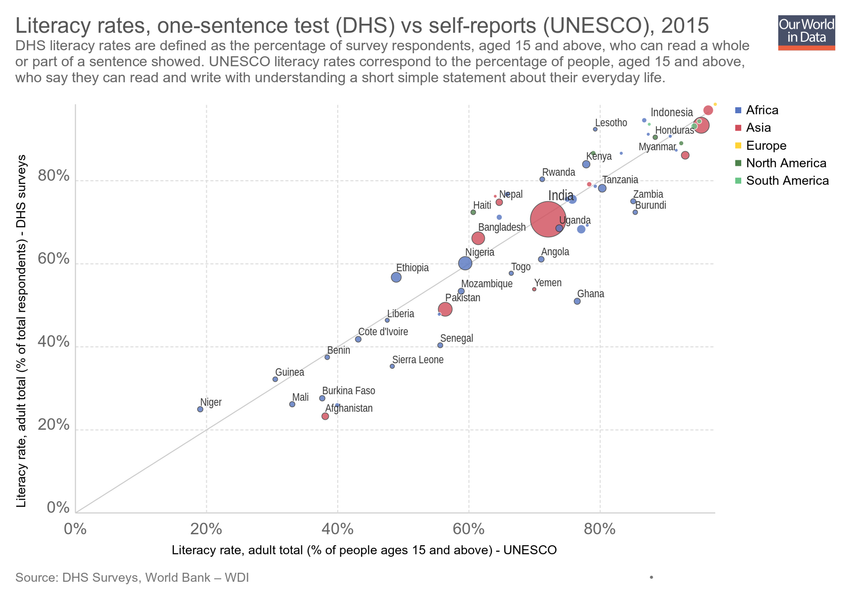
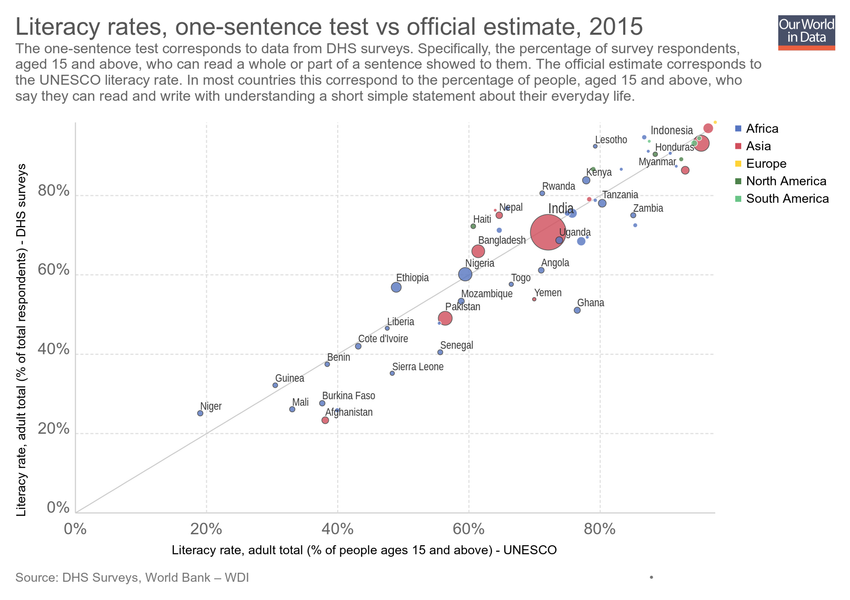
Updating chart literacy-rate-adult-total-dhs-surveys-vs-unesco

diff --git a/grapher/literacy-rate-adult-total-dhs-surveys-vs-unesco.html b/grapher/literacy-rate-adult-total-dhs-surveys-vs-unesco.html
@@ -1,4 +1,4 @@
-<!doctype html><html><head><meta name="viewport" content="width=device-width, initial-scale=1" /><title>Literacy rates, one-sentence test (DHS) vs self-reports (UNESCO) - Our World in Data</title><meta name="description" content="DHS literacy rates are defined as the percentage of survey respondents, aged 15 and above, who can read a whole or part of a sentence showed. UNESCO literacy rates correspond to the percentage of people, aged 15 and above, who say they can read and write with understanding a short simple statement about their everyday life. " /><link rel="canonical" href="https://ourworldindata.org/grapher/literacy-rate-adult-total-dhs-surveys-vs-unesco" /><meta property="fb:app_id" content="1149943818390250" /><meta property="og:url" content="https://ourworldindata.org/grapher/literacy-rate-adult-total-dhs-surveys-vs-unesco" /><meta property="og:title" content="Literacy rates, one-sentence test (DHS) vs self-reports (UNESCO)" /><meta property="og:description" content="DHS literacy rates are defined as the percentage of survey respondents, aged 15 and above, who can read a whole or part of a sentence showed. UNESCO literacy rates correspond to the percentage of people, aged 15 and above, who say they can read and write with understanding a short simple statement about their everyday life. " /><meta property="og:image" content="https://ourworldindata.org/grapher/exports/literacy-rate-adult-total-dhs-surveys-vs-unesco.png?v=6" /><meta property="og:image:width" content="850" /><meta property="og:image:height" content="600" /><meta property="og:site_name" content="Our World in Data" /><meta name="twitter:card" content="summary_large_image" /><meta name="twitter:site" content="@OurWorldInData" /><meta name="twitter:creator" content="@OurWorldInData" /><meta name="twitter:title" content="Literacy rates, one-sentence test (DHS) vs self-reports (UNESCO)" /><meta name="twitter:description" content="DHS literacy rates are defined as the percentage of survey respondents, aged 15 and above, who can read a whole or part of a sentence showed. UNESCO literacy rates correspond to the percentage of people, aged 15 and above, who say they can read and write with understanding a short simple statement about their everyday life. " /><meta name="twitter:image" content="https://ourworldindata.org/grapher/exports/literacy-rate-adult-total-dhs-surveys-vs-unesco.png?v=6" /><style>
+<!doctype html><html><head><meta name="viewport" content="width=device-width, initial-scale=1" /><title>Literacy rates, one-sentence test  vs official estimate - Our World in Data</title><meta name="description" content="The one-sentence test corresponds to data from DHS surveys. Specifically, the percentage of survey respondents, aged 15 and above, who can read a whole or part of a sentence showed to them. The official estimate corresponds to the UNESCO literacy rate. In most countries this correspond to the percentage of people, aged 15 and above, who say they can read and write with understanding a short simple statement about their everyday life. " /><link rel="canonical" href="https://ourworldindata.org/grapher/literacy-rate-adult-total-dhs-surveys-vs-unesco" /><meta property="fb:app_id" content="1149943818390250" /><meta property="og:url" content="https://ourworldindata.org/grapher/literacy-rate-adult-total-dhs-surveys-vs-unesco" /><meta property="og:title" content="Literacy rates, one-sentence test  vs official estimate" /><meta property="og:description" content="The one-sentence test corresponds to data from DHS surveys. Specifically, the percentage of survey respondents, aged 15 and above, who can read a whole or part of a sentence showed to them. The official estimate corresponds to the UNESCO literacy rate. In most countries this correspond to the percentage of people, aged 15 and above, who say they can read and write with understanding a short simple statement about their everyday life. " /><meta property="og:image" content="https://ourworldindata.org/grapher/exports/literacy-rate-adult-total-dhs-surveys-vs-unesco.png?v=8" /><meta property="og:image:width" content="850" /><meta property="og:image:height" content="600" /><meta property="og:site_name" content="Our World in Data" /><meta name="twitter:card" content="summary_large_image" /><meta name="twitter:site" content="@OurWorldInData" /><meta name="twitter:creator" content="@OurWorldInData" /><meta name="twitter:title" content="Literacy rates, one-sentence test  vs official estimate" /><meta name="twitter:description" content="The one-sentence test corresponds to data from DHS surveys. Specifically, the percentage of survey respondents, aged 15 and above, who can read a whole or part of a sentence showed to them. The official estimate corresponds to the UNESCO literacy rate. In most countries this correspond to the percentage of people, aged 15 and above, who say they can read and write with understanding a short simple statement about their everyday life. " /><meta name="twitter:image" content="https://ourworldindata.org/grapher/exports/literacy-rate-adult-total-dhs-surveys-vs-unesco.png?v=8" /><style>
         html, body {
             height: 100%;
             margin: 0;
@@ -20,8 +20,8 @@
         }
     </style><noscript><style>
                     figure { display: none !important; }
-                </style></noscript><link rel="stylesheet" href="https://ourworldindata.org/grapher/assets/commons.bundle.dcbbe53805c487d5e57617b10ac73a8a.css" /><link rel="preload" href="/grapher/data/variables/97492+3196+72+123.json?v=6" as="fetch" crossorigin /></head><body class="singleChart"><figure data-grapher-src="/grapher/literacy-rate-adult-total-dhs-surveys-vs-unesco"></figure><noscript id="fallback"><img src="/grapher/exports/literacy-rate-adult-total-dhs-surveys-vs-unesco.svg" /><p>Interactive visualization requires JavaScript</p></noscript><script src="https://cdn.polyfill.io/v2/polyfill.min.js?features=es6,fetch"></script><script src="https://ourworldindata.org/grapher/assets/commons.bundle.da523acc49807a06a11f.js"></script><script src="https://ourworldindata.org/grapher/assets/charts.bundle.da523acc49807a06a11f.js"></script><script>
-        var jsonConfig = {"id":2705,"map":{"projection":"World","colorSchemeLabels":[],"colorSchemeValues":[],"customNumericColors":[],"customCategoryColors":{},"customCategoryLabels":{},"customHiddenCategories":{}},"tab":"chart","slug":"literacy-rate-adult-total-dhs-surveys-vs-unesco","type":"ScatterPlot","title":"Literacy rates, one-sentence test (DHS) vs self-reports (UNESCO)","xAxis":{"min":0,"scaleType":"linear"},"yAxis":{"min":0,"scaleType":"linear"},"maxTime":2015,"minTime":2015,"version":6,"subtitle":"DHS literacy rates are defined as the percentage of survey respondents, aged 15 and above, who can read a whole or part of a sentence showed. UNESCO literacy rates correspond to the percentage of people, aged 15 and above, who say they can read and write with understanding a short simple statement about their everyday life. ","hasMapTab":false,"stackMode":"absolute","dimensions":[{"display":{"name":"Literacy rate, adult total (% of total respondents) - DHS surveys","tolerance":10},"property":"y","variableId":97492},{"display":{"name":"Literacy rate, adult total (% of people ages 15 and above) - UNESCO","tolerance":10},"property":"x","variableId":3196},{"display":{},"property":"size","variableId":72},{"display":{},"property":"color","variableId":123}],"hasChartTab":true,"isPublished":true,"selectedData":[],"addCountryMode":"change-country","comparisonLine":{}};
+                </style></noscript><link rel="stylesheet" href="https://ourworldindata.org/grapher/assets/commons.bundle.dcbbe53805c487d5e57617b10ac73a8a.css" /><link rel="preload" href="/grapher/data/variables/97492+3196+72+123.json?v=8" as="fetch" crossorigin /></head><body class="singleChart"><figure data-grapher-src="/grapher/literacy-rate-adult-total-dhs-surveys-vs-unesco"></figure><noscript id="fallback"><img src="/grapher/exports/literacy-rate-adult-total-dhs-surveys-vs-unesco.svg" /><p>Interactive visualization requires JavaScript</p></noscript><script src="https://cdn.polyfill.io/v2/polyfill.min.js?features=es6,fetch"></script><script src="https://ourworldindata.org/grapher/assets/commons.bundle.da523acc49807a06a11f.js"></script><script src="https://ourworldindata.org/grapher/assets/charts.bundle.da523acc49807a06a11f.js"></script><script>
+        var jsonConfig = {"id":2705,"map":{"projection":"World","colorSchemeLabels":[],"colorSchemeValues":[],"customNumericColors":[],"customCategoryColors":{},"customCategoryLabels":{},"customHiddenCategories":{}},"tab":"chart","slug":"literacy-rate-adult-total-dhs-surveys-vs-unesco","type":"ScatterPlot","title":"Literacy rates, one-sentence test  vs official estimate","xAxis":{"min":0,"scaleType":"linear"},"yAxis":{"min":0,"scaleType":"linear"},"maxTime":2015,"minTime":2015,"version":8,"subtitle":"The one-sentence test corresponds to data from DHS surveys. Specifically, the percentage of survey respondents, aged 15 and above, who can read a whole or part of a sentence showed to them. The official estimate corresponds to the UNESCO literacy rate. In most countries this correspond to the percentage of people, aged 15 and above, who say they can read and write with understanding a short simple statement about their everyday life. ","hasMapTab":false,"stackMode":"absolute","dimensions":[{"display":{"name":"Literacy rate, adult total (% of total respondents) - DHS surveys","tolerance":10},"property":"y","variableId":97492},{"display":{"name":"Literacy rate, adult total (% of people ages 15 and above) - UNESCO","tolerance":10},"property":"x","variableId":3196},{"display":{},"property":"size","variableId":72},{"display":{},"property":"color","variableId":123}],"hasChartTab":true,"isPublished":true,"selectedData":[],"addCountryMode":"change-country","comparisonLine":{}};
         var figure = document.getElementsByTagName("figure")[0];
         try {
             window.App = {};
